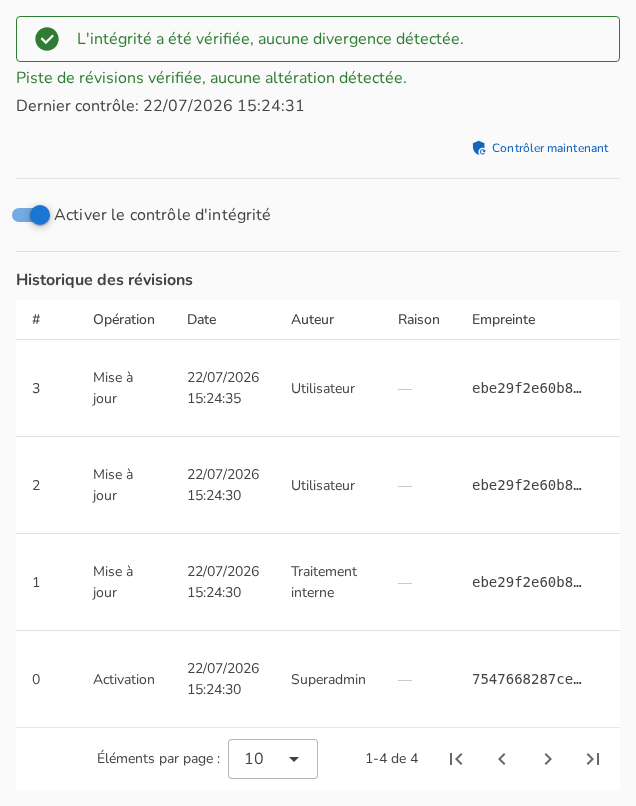
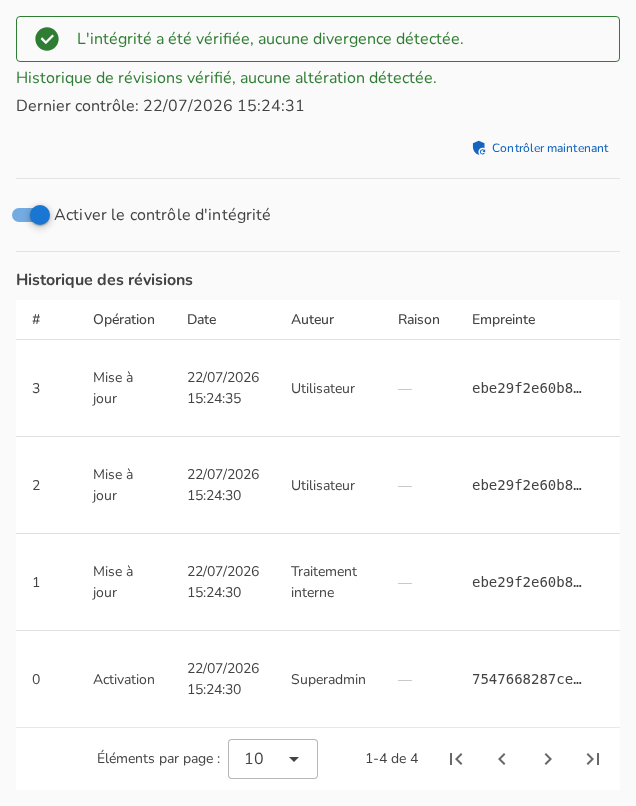
docs(integrity): terminologie fr — historique de revisions plutot que piste
'Donnees engageantes' presumait de la nature des donnees : seul compte le
choix du responsable de placer un jeu sous controle renforce — reformule
dans l'introduction et la conclusion. 'Piste' (calque de trail) remplace
partout par 'historique de revisions', deja le libelle du tableau dans
l'interface — applique au document, aux libelles du panneau et au titre de
l'evenement fr ; captures regenerees.

Changed region(s): [[0.0299, 0.0931, 0.6871, 0.1241]]

diff --git a/ui/src/components/dataset/dataset-integrity.vue b/ui/src/components/dataset/dataset-integrity.vue
@@ -627,7 +627,7 @@ fr:
   op_restore: Restauration
   op_delete: Suppression
   op_disable: Désactivation
-  op_ackTrail: Anomalies de piste acquittées
+  op_ackTrail: Anomalies d'historique acquittées
   origin_user: Utilisateur
   origin_superadmin: Superadmin
   origin_worker: Traitement interne
@@ -663,16 +663,16 @@ fr:
   disableTitle: Désactiver le contrôle d'intégrité
   disableWarning: "Les verdicts de contrôle seront effacés et le renouvellement des verrous s'arrêtera : les révisions déjà écrites resteront verrouillées jusqu'à leur date de rétention puis seront purgées. Une réactivation ultérieure ré-ancrera l'état courant."
   disableConfirm: Désactiver
-  trailAlteredTitle: Piste de révisions altérée
+  trailAlteredTitle: Historique de révisions altéré
   trailAlteredBody: "L'historique verrouillé présente des signes d'altération (révisions réécrites ou masquées). Les versions d'origine sont intactes dans l'entrepôt ; investiguez (accès à l'entrepôt compromis ?) avant d'acquitter."
-  trailOkBody: Piste de révisions vérifiée, aucune altération détectée.
+  trailOkBody: Historique de révisions vérifié, aucune altération détectée.
   anomaly_delete-marker: Révision masquée
   anomaly_version-divergence: Révision réécrite
   anomaly_date-skew: Date incohérente
   anomaly_sequence-gap: Trou de séquence
   ackTrail: Acquitter les anomalies
   ackHelp: Enregistre une révision verrouillée attestant que ces anomalies ont été examinées ; toute nouvelle altération ressortira malgré l'acquittement.
-  ackTitle: Acquitter les anomalies de piste
+  ackTitle: Acquitter les anomalies d'historique
   ackWarning: "Les anomalies actuellement détectées ne seront plus signalées. L'acquittement est lui-même une révision verrouillée et tracée : toute altération ultérieure sera de nouveau détectée. À n'utiliser qu'après investigation."
   ackOk: Anomalies acquittées
 en:

diff --git a/docs/presentation-integrite-fr/02-garanties.md b/docs/presentation-integrite-fr/02-garanties.md
@@ -16,18 +16,18 @@ Deux conséquences structurent tout le reste :
 Chaque contrôle répond à deux questions indépendantes :
 
 1. **Verdict d'intégrité des données** — l'état courant (fichier, métadonnées, lignes) correspond-il à la dernière révision scellée ? Une divergence signifie qu'une écriture a eu lieu hors du circuit légitime.
-2. **Verdict de cohérence de la piste** — la piste de révisions elle-même est-elle bien celle que la plateforme a écrite ? Ce second verdict détecte les manipulations de l'entrepôt : révision masquée, réécrite par-dessus, datée de façon incohérente, ou trou dans la séquence. Il s'appuie sur des éléments que même un détenteur des accès de stockage ne peut pas falsifier : les versions verrouillées d'origine et les dates apposées par le fournisseur de stockage.
+2. **Verdict de cohérence de l'historique** — l'historique de révisions lui-même est-il bien celui que la plateforme a écrit ? Ce second verdict détecte les manipulations de l'entrepôt : révision masquée, réécrite par-dessus, datée de façon incohérente, ou trou dans la séquence. Il s'appuie sur des éléments que même un détenteur des accès de stockage ne peut pas falsifier : les versions verrouillées d'origine et les dates apposées par le fournisseur de stockage.
 
 ```mermaid
 flowchart TB
     subgraph V1["Verdict 1 — les données"]
         D[("Données courantes")] -->|"empreinte"| C1{{"= dernière révision scellée ?"}}
     end
-    subgraph V2["Verdict 2 — la piste"]
-        W[["Entrepôt verrouillé"]] -->|"versions, dates,<br/>séquence"| C2{{"piste conforme<br/>à ce qui a été écrit ?"}}
+    subgraph V2["Verdict 2 — l'historique"]
+        W[["Entrepôt verrouillé"]] -->|"versions, dates,<br/>séquence"| C2{{"historique conforme<br/>à ce qui a été écrit ?"}}
     end
     C1 -->|"divergence"| B1(["Alerte : intégrité compromise"])
-    C2 -->|"anomalie"| B2(["Alerte : piste altérée"])
+    C2 -->|"anomalie"| B2(["Alerte : historique altéré"])
 ```
 
 ### Niveaux de confiance selon l'adversaire
@@ -35,20 +35,20 @@ flowchart TB
 | Position de l'adversaire | Ce qu'il peut faire | Ce qui est garanti |
 |---|---|---|
 | **Modification directe des données** (accès aux fichiers ou à la base interne, en contournant la plateforme) | Altérer, insérer ou supprimer des données | **Détection** au prochain contrôle, **réparation** depuis la dernière révision vérifiée |
-| **Idem, en imitant le signal d'écriture interne** (compromission avancée de la base) | Faire enregistrer son altération comme une écriture ordinaire | L'altération entre dans la piste **datée et horodatée** ; le croisement entre la piste et le journal d'activité de la plateforme révèle une écriture sans action correspondante. C'est la limite dite du « mensonge à la première écriture » : la piste prouve *qu'une* écriture a eu lieu et *quand*, pas *qui* en est l'auteur légitime |
-| **Accès aux identifiants de l'entrepôt de révisions** (vol de clés de stockage) | Tenter de masquer, réécrire ou fabriquer des révisions | Les révisions d'origine sont **indestructibles** avant échéance ; toute tentative de dissimulation est **détectée par le verdict de cohérence de piste**, car elle laisse des traces impossibles à effacer (versions superposées, dates du fournisseur) |
-| **Désarmement de la protection** (désactivation hors circuit du contrôle) | Couper la surveillance avant d'altérer | Toute désactivation légitime est elle-même **enregistrée dans la piste** ; une surveillance quotidienne croise l'entrepôt et la base et **alerte** quand une protection s'arrête sans désactivation signée |
+| **Idem, en imitant le signal d'écriture interne** (compromission avancée de la base) | Faire enregistrer son altération comme une écriture ordinaire | L'altération entre dans l'historique, **datée et horodatée** ; le croisement entre l'historique de révisions et le journal d'activité de la plateforme révèle une écriture sans action correspondante. C'est la limite dite du « mensonge à la première écriture » : l'historique prouve *qu'une* écriture a eu lieu et *quand*, pas *qui* en est l'auteur légitime |
+| **Accès aux identifiants de l'entrepôt de révisions** (vol de clés de stockage) | Tenter de masquer, réécrire ou fabriquer des révisions | Les révisions d'origine sont **indestructibles** avant échéance ; toute tentative de dissimulation est **détectée par le verdict de cohérence de l'historique**, car elle laisse des traces impossibles à effacer (versions superposées, dates du fournisseur) |
+| **Désarmement de la protection** (désactivation hors circuit du contrôle) | Couper la surveillance avant d'altérer | Toute désactivation légitime est elle-même **enregistrée dans l'historique** ; une surveillance quotidienne croise l'entrepôt et la base et **alerte** quand une protection s'arrête sans désactivation signée |
 | **Collusion de l'exploitant et du fournisseur de stockage** | Détruire l'entrepôt et ses preuves | **Hors modèle de menace**, assumé et documenté : s'en prémunir exigerait des preuves cryptographiques indépendantes du fournisseur, écartées par choix de conception |
 
 ### La robustesse des alertes
 
-Détecter ne suffit pas si l'alerte peut être étouffée. Les événements d'alerte (intégrité compromise, piste altérée, échec de renouvellement de verrou, incohérence de protection) sont émis **à l'entrée dans l'état anormal puis réémis périodiquement tant qu'il persiste** : un adversaire qui parviendrait à supprimer une notification ne gagne qu'un délai, jamais le silence. Symétriquement, un jeu de données protégé qui reste trop longtemps **sans verdict définitif** — écritures en attente, incident technique, ou blocage provoqué — déclenche sa propre alerte : l'absence de réponse est traitée comme une anomalie, pas comme un état neutre.
+Détecter ne suffit pas si l'alerte peut être étouffée. Les événements d'alerte (intégrité compromise, historique altéré, échec de renouvellement de verrou, incohérence de protection) sont émis **à l'entrée dans l'état anormal puis réémis périodiquement tant qu'il persiste** : un adversaire qui parviendrait à supprimer une notification ne gagne qu'un délai, jamais le silence. Symétriquement, un jeu de données protégé qui reste trop longtemps **sans verdict définitif** — écritures en attente, incident technique, ou blocage provoqué — déclenche sa propre alerte : l'absence de réponse est traitée comme une anomalie, pas comme un état neutre.
 
 ### Ce que la fonctionnalité ne garantit pas
 
 Par honnêteté d'évaluation, les limites assumées :
 
 - **pas de prévention** : une altération reste matériellement possible ; elle est détectée et réparable, pas empêchée ;
-- **pas d'imputation individuelle dans la piste** : la piste enregistre la *catégorie* d'auteur (utilisateur, superadministrateur, traitement interne…), jamais l'identité — un choix délibéré lié à la protection des données personnelles (voir la section conformité) ; l'imputation individuelle relève du journal d'activité, qui suit son propre cycle de vie ;
+- **pas d'imputation individuelle dans l'historique** : il enregistre la *catégorie* d'auteur (utilisateur, superadministrateur, traitement interne…), jamais l'identité — un choix délibéré lié à la protection des données personnelles (voir la section conformité) ; l'imputation individuelle relève du journal d'activité, qui suit son propre cycle de vie ;
 - **pas de non-répudiation cryptographique** : pas de chaînage de signatures ni d'horodatage qualifié ; la confiance repose sur le verrou de conformité du stockage ;
 - **l'historique est borné** : seule la fenêtre de rétention (un an par défaut) est restaurable ; l'état *courant* vérifié, lui, reste protégé indéfiniment tant que la protection est active.

diff --git a/docs/presentation-integrite-fr/03-fonctionnement.md b/docs/presentation-integrite-fr/03-fonctionnement.md
@@ -27,7 +27,7 @@ Les fichiers identiques ne sont jamais stockés deux fois : une modification qui
 
 ### Le contrôle et l'alerte
 
-Un contrôle automatique passe chaque nuit sur les jeux de données protégés ; un contrôle immédiat peut aussi être déclenché à la demande depuis l'interface. Chaque passage produit les deux verdicts (données et piste, voir les garanties) et alerte les administrateurs abonnés via le système de notifications de la plateforme en cas d'anomalie — avec la logique de réémission périodique décrite dans les garanties.
+Un contrôle automatique passe chaque nuit sur les jeux de données protégés ; un contrôle immédiat peut aussi être déclenché à la demande depuis l'interface. Chaque passage produit les deux verdicts (données et historique, voir les garanties) et alerte les administrateurs abonnés via le système de notifications de la plateforme en cas d'anomalie — avec la logique de réémission périodique décrite dans les garanties.
 
 ### La rétention et l'horizon de protection
 
@@ -44,11 +44,11 @@ flowchart LR
 
 ### La fin de vie : désactivation et suppression
 
-La désactivation de la protection et la suppression d'un jeu de données protégé sont elles-mêmes **des événements enregistrés dans la piste** : une révision terminale signée clôt la séquence, avec l'éventuel motif saisi. Les révisions existantes restent verrouillées jusqu'à leur échéance puis s'effacent naturellement — la suppression complète de l'historique intervient donc au plus tard une fenêtre de rétention après la fin de vie. Une surveillance quotidienne vérifie qu'aucune protection ne s'est arrêtée **sans** cette clôture signée : c'est la parade au scénario « couper l'alarme avant d'agir ».
+La désactivation de la protection et la suppression d'un jeu de données protégé sont elles-mêmes **des événements enregistrés dans l'historique** : une révision terminale signée clôt la séquence, avec l'éventuel motif saisi. Les révisions existantes restent verrouillées jusqu'à leur échéance puis s'effacent naturellement — la suppression complète de l'historique intervient donc au plus tard une fenêtre de rétention après la fin de vie. Une surveillance quotidienne vérifie qu'aucune protection ne s'est arrêtée **sans** cette clôture signée : c'est la parade au scénario « couper l'alarme avant d'agir ».
 
 ### La restauration et la réconciliation
 
-Deux remèdes, tous deux réservés au superadministrateur et systématiquement tracés dans la piste :
+Deux remèdes, tous deux réservés au superadministrateur et systématiquement tracés dans l'historique :
 
 - **Restaurer** ramène le jeu de données (ou ses lignes divergentes) à l'état d'une révision vérifiée — n'importe laquelle de la fenêtre de rétention, pas seulement la dernière. La restauration d'un fichier repasse par le circuit de traitement standard de la plateforme, avec ses validations habituelles.
 - **Réconcilier** fait l'inverse : après vérification humaine qu'une divergence correspond à une modification connue et assumée, l'état *courant* est scellé comme nouvelle référence. La divergence cesse d'être signalée, mais l'opération de réconciliation — et son motif — restent lisibles dans l'historique pour toujours.

diff --git a/docs/presentation-integrite-fr/05-utilisation.md b/docs/presentation-integrite-fr/05-utilisation.md
@@ -1,10 +1,10 @@
 ## Utilisation dans l'interface
 
-Toute la fonctionnalité se pilote depuis l'onglet **Intégrité** de la page d'administration du jeu de données. L'onglet est visible par les administrateurs du compte propriétaire ; les actions qui modifient la protection ou la piste (activer, désactiver, contrôler, réconcilier, restaurer, acquitter) sont réservées au **superadministrateur** de la plateforme et confirmées par des boîtes de dialogue qui énoncent leurs conséquences.
+Toute la fonctionnalité se pilote depuis l'onglet **Intégrité** de la page d'administration du jeu de données. L'onglet est visible par les administrateurs du compte propriétaire ; les actions qui modifient la protection ou l'historique (activer, désactiver, contrôler, réconcilier, restaurer, acquitter) sont réservées au **superadministrateur** de la plateforme et confirmées par des boîtes de dialogue qui énoncent leurs conséquences.
 
 ### L'état nominal
 
-Le panneau affiche le verdict du dernier contrôle, la vérification de la piste, et l'historique complet des révisions : numéro, opération, date, catégorie d'auteur, motif éventuel et empreinte. Chaque révision porteuse de contenu propose la comparaison avec l'état courant, le téléchargement du fichier scellé, et la restauration.
+Le panneau affiche le verdict du dernier contrôle, la vérification de cohérence, et l'historique complet des révisions : numéro, opération, date, catégorie d'auteur, motif éventuel et empreinte. Chaque révision porteuse de contenu propose la comparaison avec l'état courant, le téléchargement du fichier scellé, et la restauration.
 
 ![Panneau d'intégrité — état vérifié](img/panneau-integrite-ok.png)
 
@@ -20,7 +20,7 @@ Pour un jeu éditable, le panneau ajoute le décompte des lignes protégées et,
 
 ![Panneau d'intégrité — divergence sur une ligne d'un jeu éditable](img/panneau-integrite-lignes.png)
 
-### L'alerte de piste et l'acquittement
+### L'alerte de cohérence et l'acquittement
 
 Si le second verdict détecte une manipulation de l'entrepôt lui-même (révision masquée ou réécrite, incohérence de dates), une alerte distincte l'affiche avec le détail de chaque anomalie et son niveau de certitude. Après enquête — typiquement : rotation des accès de stockage, vérification des sauvegardes — le superadministrateur peut **acquitter** les anomalies examinées. L'acquittement est lui-même une révision scellée, motivée et datée : il fait taire les anomalies passées en revue, jamais les futures — toute nouvelle manipulation ressort immédiatement.
 

diff --git a/docs/presentation-integrite-fr/06-conformite.md b/docs/presentation-integrite-fr/06-conformite.md
@@ -6,7 +6,7 @@ L'entrepôt de révisions est indestructible avant échéance — il ne doit don
 
 - le contexte d'une révision enregistre la **catégorie** d'auteur (utilisateur, superadministrateur, traitement interne, propagation, migration), jamais un identifiant individuel ;
 - les champs d'attribution individuelle des métadonnées sont exclus du périmètre scellé ;
-- l'**imputation individuelle** vit dans le journal d'activité de la plateforme, qui reste modifiable et est anonymisé lors de la suppression d'un compte utilisateur — le rapprochement par date entre piste et journal redonne le « qui » tant que le journal le détient.
+- l'**imputation individuelle** vit dans le journal d'activité de la plateforme, qui reste modifiable et est anonymisé lors de la suppression d'un compte utilisateur — le rapprochement par date entre l'historique de révisions et le journal redonne le « qui » tant que le journal le détient.
 
 Une demande d'effacement portant sur un utilisateur n'entre donc jamais en conflit avec l'entrepôt : il n'y a rien à y effacer.
 
@@ -18,7 +18,7 @@ L'unité d'effacement anticipé reste le **compte** (organisation) : comme pour 
 
 ### Traçabilité pour l'audit
 
-- **Le registre est l'entrepôt lui-même** : la piste de révisions se reconstitue depuis le stockage seul, sans faire confiance à la base de données de la plateforme — c'est précisément ce que le verdict de cohérence vérifie en continu.
+- **Le registre est l'entrepôt lui-même** : l'historique de révisions se reconstitue depuis le stockage seul, sans faire confiance à la base de données de la plateforme — c'est précisément ce que le verdict de cohérence vérifie en continu.
 - **Alerte et supervision** passent par le système d'événements standard de la plateforme : les administrateurs s'abonnent aux alertes d'intégrité comme aux autres notifications, et les événements sont réémis périodiquement tant qu'un état anormal persiste.
 - **Accès d'audit** : par défaut, l'accès aux révisions est servi par la plateforme, sous son contrôle d'accès (administrateurs du compte en lecture, superadministrateur pour les actions). Pour un audit exigeant une vérification *sans faire confiance à la plateforme*, le fournisseur de stockage cible permet de délivrer des accès en lecture seule restreints au périmètre du compte audité — une modalité manuelle, à la demande.
 

diff --git a/docs/presentation-integrite-fr/01-introduction.md b/docs/presentation-integrite-fr/01-introduction.md
@@ -1,6 +1,6 @@
 ## Introduction
 
-Le contrôle d'intégrité de data-fair répond à une question simple que se posent les administrations et les organisations qui publient des données engageantes : **comment prouver que ces données n'ont pas été altérées en dehors des circuits légitimes, et comment revenir en arrière si cela s'est produit ?**
+Le contrôle d'intégrité de data-fair répond à une question simple : **comment prouver que des données n'ont pas été altérées en dehors des circuits légitimes, et comment revenir en arrière si cela s'est produit ?**
 
 La fonctionnalité s'articule autour de trois niveaux d'exigence, dont les deux premiers sont couverts :
 
@@ -8,7 +8,7 @@ La fonctionnalité s'articule autour de trois niveaux d'exigence, dont les deux 
 2. **Réparation** — pouvoir restaurer la ressource dans n'importe quel état antérieur vérifié, dans la limite d'une fenêtre de rétention.
 3. **Prévention** — rendre une ressource immodifiable. Ce niveau n'est pas couvert par cette fonctionnalité : la plateforme reste un outil de gestion de données vivantes, et l'immuabilité totale relèverait d'un dispositif distinct.
 
-Le principe central : chaque écriture légitime dépose une **révision scellée** — empreinte numérique, contexte de l'opération et copie complète du contenu — dans un **entrepôt à verrouillage de conformité** (stockage objet WORM, *Write Once Read Many*), où personne, pas même l'hébergeur de la plateforme, ne peut la modifier ni la supprimer avant l'échéance de son verrou. Un contrôle régulier compare l'état courant des données à la dernière révision scellée, et vérifie également que la piste de révisions elle-même n'a pas été manipulée.
+Le principe central : chaque écriture légitime dépose une **révision scellée** — empreinte numérique, contexte de l'opération et copie complète du contenu — dans un **entrepôt à verrouillage de conformité** (stockage objet WORM, *Write Once Read Many*), où personne, pas même l'hébergeur de la plateforme, ne peut la modifier ni la supprimer avant l'échéance de son verrou. Un contrôle régulier compare l'état courant des données à la dernière révision scellée, et vérifie également que l'historique de révisions lui-même n'a pas été manipulé.
 
 ```mermaid
 flowchart LR

diff --git a/docs/presentation-integrite-fr/07-conclusion.md b/docs/presentation-integrite-fr/07-conclusion.md
@@ -1,6 +1,6 @@
 ## Conclusion
 
-Le contrôle d'intégrité de data-fair apporte aux données engageantes une garantie simple à énoncer et honnête dans ses limites : **toute altération hors des circuits légitimes est détectée, toute tentative d'effacer les preuves échoue, et l'état vérifié reste restaurable** — le tout adossé à un verrouillage de conformité que ni la plateforme ni son hébergeur ne peuvent contredire.
+Le contrôle d'intégrité de data-fair apporte aux jeux de données protégés une garantie simple à énoncer et honnête dans ses limites : **toute altération hors des circuits légitimes est détectée, toute tentative d'effacer les preuves échoue, et l'état vérifié reste restaurable** — le tout adossé à un verrouillage de conformité que ni la plateforme ni son hébergeur ne peuvent contredire.
 
 Les choix qui fondent la confiance :
 
